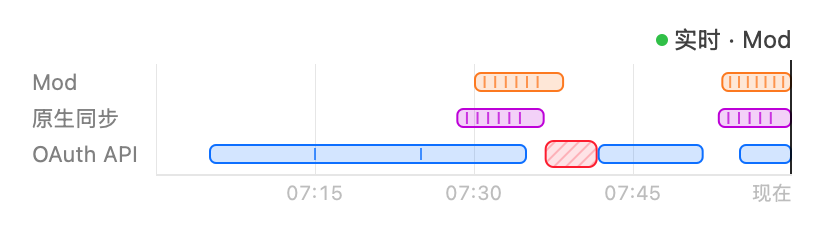
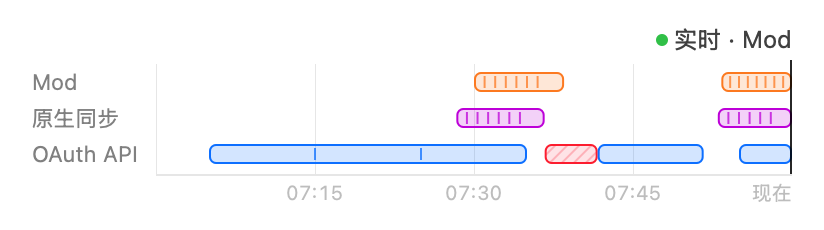
[BB-619] 失败框与横条同尺寸，类别移到悬停提示
失败框改为和其他横条一样高、同一垂直位置；框内放不下文字，类别只在悬停提示和 VoiceOver 摘要里给出。

Changed region(s): [[0.6371, 0.6087, 0.7282, 0.7304]]

diff --git a/Sources/UI/Quota/ClaudeSourceTimelineView.swift b/Sources/UI/Quota/ClaudeSourceTimelineView.swift
@@ -110,10 +110,9 @@ struct ClaudeSourceTimelineLayout {
         let from = max(run.start, start)
         let to = min(run.end ?? now, now)
         guard to >= from, from < now else { return nil }
-        let lane = laneRect(.oauthAPI).insetBy(dx: 0, dy: 2)
+        // Same size as a bar so the failure reads as one more box in the OAuth row.
         let minX = x(for: from)
-        return Band(run: run, rect: CGRect(
-            x: minX, y: lane.minY, width: max(Self.minimumMarkWidth, x(for: to) - minX), height: lane.height))
+        return Band(run: run, rect: barRect(.oauthAPI, from: minX, to: x(for: to)))
     }
 
     /// Quarter-hour marks in the display time zone, so they read as 10:15, 10:30, …
@@ -145,7 +144,6 @@ final class ClaudeSourceTimelineView: NSView {
     static let refreshInterval: TimeInterval = 5
     static let labelFont = NSFont.systemFont(ofSize: 11)
     static let axisFont = NSFont.monospacedDigitSystemFont(ofSize: 10, weight: .regular)
-    static let bandFont = NSFont.systemFont(ofSize: 10, weight: .medium)
 
     private let provider: () -> Content
     private let localize: (StatusSlotText) -> String
@@ -262,12 +260,6 @@ final class ClaudeSourceTimelineView: NSView {
         }
     }
 
-    /// Whether a band is wide enough to carry its category text.
-    static func bandShowsText(_ band: ClaudeSourceTimelineLayout.Band) -> Bool {
-        let width = (failureText(band.run.kind) as NSString).size(withAttributes: [.font: bandFont]).width
-        return band.rect.width >= ceil(width) + 8
-    }
-
     override func viewDidChangeEffectiveAppearance() {
         super.viewDidChangeEffectiveAppearance()
         needsDisplay = true
@@ -337,10 +329,10 @@ final class ClaudeSourceTimelineView: NSView {
         outline.stroke()
     }
 
-    /// A rounded red box in the bars' style (tint, outline, faint stripes) rather than edge lines.
+    /// A rounded red box the size of a bar (tint, outline, faint stripes); its category is in the tooltip.
     private func drawBand(_ band: ClaudeSourceTimelineLayout.Band) {
         let rect = band.rect
-        let box = NSBezierPath(roundedRect: rect.insetBy(dx: 0.5, dy: 0.5), xRadius: 4, yRadius: 4)
+        let box = NSBezierPath(roundedRect: rect.insetBy(dx: 0.5, dy: 0.5), xRadius: 3, yRadius: 3)
         NSColor.systemRed.withAlphaComponent(0.12).setFill()
         box.fill()
         NSGraphicsContext.saveGraphicsState()
@@ -359,11 +351,6 @@ final class ClaudeSourceTimelineView: NSView {
         box.lineWidth = 1
         NSColor.systemRed.setStroke()
         box.stroke()
-        guard Self.bandShowsText(band) else { return }
-        let text = Self.failureText(band.run.kind) as NSString
-        let attributes: [NSAttributedString.Key: Any] = [.font: Self.bandFont, .foregroundColor: NSColor.systemRed]
-        let size = text.size(withAttributes: attributes)
-        text.draw(at: NSPoint(x: rect.midX - size.width / 2, y: rect.midY - size.height / 2), withAttributes: attributes)
     }
 
     // MARK: Tooltips

diff --git a/Tests/BalanceBarTests/UI/Quota/ClaudeSourceTimelineViewTests.swift b/Tests/BalanceBarTests/UI/Quota/ClaudeSourceTimelineViewTests.swift
@@ -58,7 +58,7 @@ final class ClaudeSourceTimelineViewTests: XCTestCase {
         XCTAssertLessThan(bars[0].dividers.count, readings.count - 1)
     }
 
-    func testFailureBandsStayInTheOAuthLaneAndAnOpenRunReachesNow() {
+    func testFailureBoxesStayInTheOAuthLaneMatchTheBarsAndAnOpenRunReachesNow() {
         let layout = layout(failures: [
             Run(start: now.addingTimeInterval(-1_500), end: now.addingTimeInterval(-900), kind: .network),
             Run(start: now.addingTimeInterval(-120), end: nil, kind: .unauthorized),
@@ -70,9 +70,9 @@ final class ClaudeSourceTimelineViewTests: XCTestCase {
             XCTAssertLessThanOrEqual(band.rect.maxY, lane.maxY)
         }
         XCTAssertEqual(layout.bands[1].rect.maxX, layout.nowX, accuracy: 0.01)
-        XCTAssertTrue(ClaudeSourceTimelineView.bandShowsText(layout.bands[0]), "a 100pt band carries its category")
-        let narrow = self.layout(failures: [layout.bands[1].run], width: 200)
-        XCTAssertFalse(ClaudeSourceTimelineView.bandShowsText(narrow.bands[0]), "a narrow band hides the text")
+        let bar = self.layout(readings: [reading(.oauthAPI, -600, 0)]).bars[0]
+        XCTAssertEqual(layout.bands[0].rect.height, bar.rect.height, "a failure box is the size of a bar")
+        XCTAssertEqual(layout.bands[0].rect.midY, bar.rect.midY, accuracy: 0.01)
     }
 
     func testTicksSitOnQuarterHoursOfTheDisplayTimeZone() {
